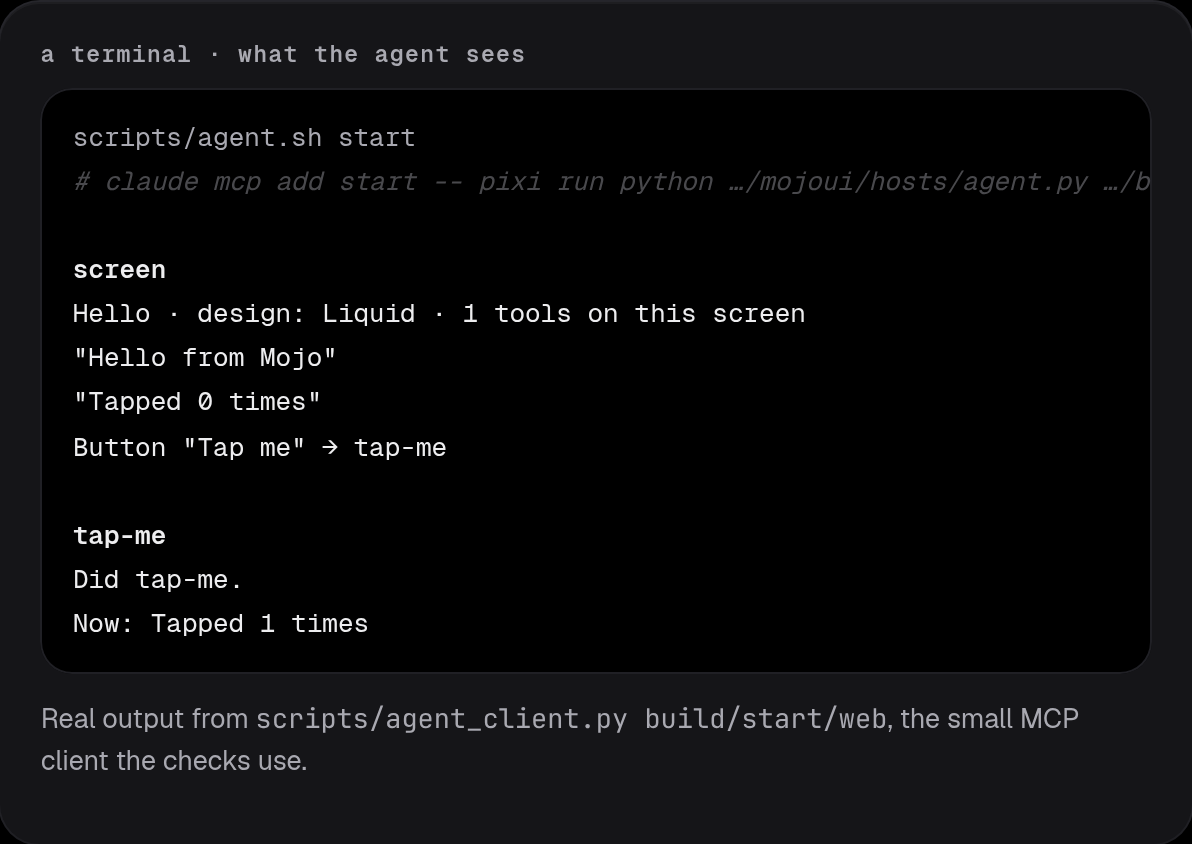
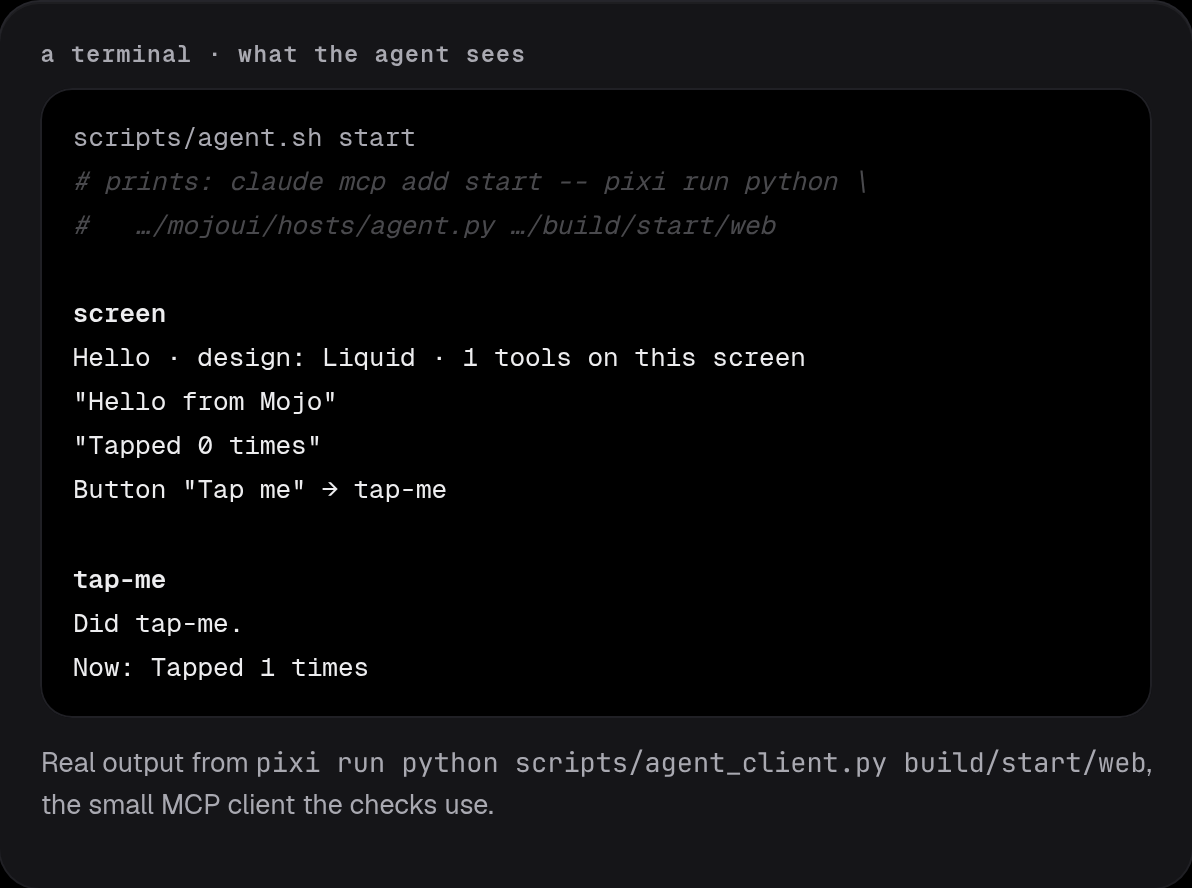
Get started, review fixes: Mac lines say what ran (GitHub's macOS 15: taps work, layout wrong), libadwaita 1.7 distros, pixi run on the agent client (D-4751)

diff --git a/docs/start.html b/docs/start.html
@@ -56,7 +56,7 @@ section .head { max-width: 860px; }
   <div class="wrap" style="display:block">
     <div class="eyebrow rise"><span>Get started</span></div>
     <h1 class="rise" data-words data-step="70" data-d0="120" style="font-size:clamp(48px,7vw,100px)">Your first Mojo app.</h1>
-    <p class="lede rise" style="margin-left:auto;margin-right:auto"><span data-words data-step="26" data-d0="700">omxcode is an app framework written in Mojo. You write one file; it becomes a native app on Linux, a web app, and a Mac app.</span> <span class="two" data-words data-step="26" data-d0="1100">Install, write 30 lines, build, run. About ten minutes.</span></p>
+    <p class="lede rise" style="margin-left:auto;margin-right:auto"><span data-words data-step="26" data-d0="700">omxcode is an app framework written in Mojo. You write one file; it becomes a native app on Linux and a web app, with Mac apps on the way.</span> <span class="two" data-words data-step="26" data-d0="1100">Install, write 30 lines, build, run. About ten minutes.</span></p>
     <div class="ctas rise"><span style="animation-delay:1500ms"><a class="cta" href="#install">Start</a></span><span style="animation-delay:1580ms"><a class="more" href="#what">What is it?</a></span></div>
   </div>
 </section>
@@ -71,7 +71,7 @@ section .head { max-width: 860px; }
     </div>
     <div class="facts3">
       <div class="rv"><div class="t">How it works</div><h3>You describe, the platform draws</h3><p>An app is a struct with three parts: its state, an <code>update</code> that changes it, and a <code>view</code> that describes the screen. omxcode turns that description into GTK widgets on Linux, HTML on the web and AppKit views on the Mac.</p></div>
-      <div class="rv"><div class="t">Where it runs</div><h3>Linux and the web today</h3><p>Linux and the web are run by checks on every change. Mac apps build and run on GitHub's macOS machines. Android runs on the emulator; iPhone builds. Windows waits for Mojo itself.</p></div>
+      <div class="rv"><div class="t">Where it runs</div><h3>Linux and the web today</h3><p>Linux and the web are run by checks on every change. The Mac builds, and this page's app has run on GitHub's macOS machine, with its layout there still to fix. Android runs on the emulator; iPhone builds. Windows waits for Mojo itself.</p></div>
       <div class="rv"><div class="t">What you get free</div><h3>A look, a GPU, an agent</h3><p>The Liquid look is one method. The same language computes on an NVIDIA GPU when there is one. And every app can be used by an AI agent without a line of extra code.</p></div>
     </div>
   </div>
@@ -88,11 +88,11 @@ section .head { max-width: 860px; }
       <div class="say rv">
         <p><b>You need:</b></p>
         <ul>
-          <li><b>Linux</b> on x86-64 with GTK 4 and libadwaita 1.7 or newer (Ubuntu 24.04, Fedora 40 or later should do; most testing is on Arch).</li>
+          <li><b>Linux</b> on x86-64 with GTK 4 and libadwaita 1.7 or newer, from your distribution (recent ones such as Fedora 42 or Ubuntu 25.04 ship it; most testing is on Arch).</li>
           <li><a href="https://pixi.sh">pixi</a>, which installs Mojo and everything else into the project folder. Nothing goes system-wide.</li>
           <li>Optional: an NVIDIA GPU. Without one, the same code runs on the CPU.</li>
         </ul>
-        <p>On a Mac (Apple Silicon), the same commands install and build; so far that's been run on GitHub's macOS machines, not yet on someone's own Mac.</p>
+        <p>On a Mac (Apple Silicon), pixi installs the same tools; so far that has been run on GitHub's macOS machines, not yet on someone's own Mac.</p>
       </div>
       <div class="pane rv"><div class="file">a terminal<button type="button" data-copy="#c-install">copy</button></div>
 <pre class="code" id="c-install">curl -fsSL https://pixi.sh/install.sh | sh     <span class="c"># if you don't have pixi</span>
@@ -165,7 +165,7 @@ pixi install                                   <span class="c"># Mojo 1.1 and th
       <div class="say rv">
         <p><b>Linux:</b> <code>scripts/build.sh start linux</code> compiles the file into a GTK app at <code>build/start/linux/start</code>. Run it and tap the button.</p>
         <p><b>The web:</b> <code>scripts/build.sh start web</code> builds the same file for the web host. Open <code>http://127.0.0.1:5001</code>. The app's logic stays in the server, in Mojo; the page gets HTML.</p>
-        <p><b>Mac:</b> <code>scripts/build.sh start mac</code> makes an AppKit app for Apple Silicon.</p>
+        <p><b>Mac:</b> <code>scripts/build.sh start mac</code> makes an AppKit app for Apple Silicon (it cross-builds from Linux too). This app ran on GitHub's macOS 15 machine and its taps work, but the layout isn't right yet: the content doesn't fill the window. That's next.</p>
         <p class="note2">The first build takes about a minute; later ones are quicker. For now the compiler also prints deprecation warnings from the framework's own code; they're harmless, and cleaning them up is on the list.</p>
       </div>
       <div>
@@ -222,7 +222,8 @@ pixi run python mojoui/hosts/web.py build/start/web
       </div>
       <div class="pane rv"><div class="file">a terminal · what the agent sees</div>
 <pre class="code">scripts/agent.sh start
-<span class="c"># claude mcp add start -- pixi run python …/mojoui/hosts/agent.py …/build/start/web</span>
+<span class="c"># prints: claude mcp add start -- pixi run python \</span>
+<span class="c">#   …/mojoui/hosts/agent.py …/build/start/web</span>
 
 <span class="k">screen</span>
 <span class="o">Hello · design: Liquid · 1 tools on this screen
@@ -233,7 +234,7 @@ Button "Tap me" → tap-me</span>
 <span class="k">tap-me</span>
 <span class="o">Did tap-me.
 Now: Tapped 1 times</span></pre>
-        <p class="note2">Real output from <code>scripts/agent_client.py build/start/web</code>, the small MCP client the checks use.</p></div>
+        <p class="note2">Real output from <code>pixi run python scripts/agent_client.py build/start/web</code>, the small MCP client the checks use.</p></div>
     </div>
   </div>
 </section>

diff --git a/docs/decisions.md b/docs/decisions.md
@@ -1176,3 +1176,4 @@ One line per fork: `D-nn · chose X over Y · why · reversible?`
 - D-4748 · (owner, 2026-11-04: "a gallery, a good example on the cover page… what we support now, how to use them, walk them through how it works, what is needed, speed benefits and where it is useful… a wiki page") the "wiki page" is a site page, docs/agents.html (the site is where the docs are read; a GitHub wiki would be a second copy to keep true), in the cover's style: a gallery of seven real screens from goal 48, the 36 components by group, a six-step walkthrough with a real render_ui call (props checked against genui's catalog), the example's code, what you need, the benchmark (bench.json 2026-11-04 07:39), where it's useful, and what isn't done yet. The cover's #agents section leads with the Lisbon map and the measured numbers and links there (was: "13 components, early today"); the gallery tile and docs/gallery gain the agent examples; site_components.py re-run (124 components). Showcase rule (D-4735): the app is all Mojo; the agent it talks to in the shots is the scripted stand-in on the official AG-UI SDK, as the page says · reversible: yes
 - D-4749 · (owner, 2026-11-04: "speed could be removed, we'll just say it's compliant and in process") the public pages carry no timings and no CopilotKit comparison: docs/agents.html's Speed section becomes "Standard, and in process" (AG-UI as the official SDK writes it: recorded streams read event for event, requests pass the SDK's models; LocalAgent in the app's process; datasets stay in the app), the cover's #agents block and the gallery card say the same; the benchmark stays in docs/agui.md, docs/goals/48/bench.json and scripts/agui_bench.py as an internal measure · reversible: yes
 - D-4750 · (owner, 2026-11-04: "start very simply… a wiki page how to get started, how to install… a Hello World… Liquid comes for free… second post: how is this tool friendly for agents… then the masterpiece omxplorer") docs/start.html, a getting-started page in the site's style: what it is, install (pixi), the app (examples/start/app.mojo, the exact file on the page), build and run on GTK and the web, Liquid as one method (shots with and without it), handing the app to an agent (real agent-host output), where next; linked from the cover's hero, its Build-your-own card and footer. docs/launch/series.md drafts four short posts (what it is → agent-ready → agents build screens → omxplorer), one picture each, no speed claims. Every command and picture on the page was run here; the Mac lines say GitHub's runners, not a person's Mac · reversible: yes
+- D-4751 · (reviewer, D-4750 round 1) docs/start.html's Mac lines say what was run: examples/start cross-built for the Mac on Linux (scripts/build.sh start mac, 48 s) and run on GitHub's macOS 15 runner (scripts/mac-ci start, run 41878763650; ci/mac/start.steps): three taps reach the app ("Tapped 3 times", 0 problems), but the AppKit layout is wrong: the root column is its content's width (121 of 480 pt), so the text wraps and Liquid's background covers only that column (docs/img/start/hello-mac-ci.png); GTK and the web fill the window. The macOS 26 job was cancelled (the run reads "failed"). Also: the distro list names releases that ship libadwaita 1.7, `pixi run python` on the agent client, a post picture without a clipped line, post 4 says "your own machine" · next: the AppKit root fills its window · reversible: yes

diff --git a/docs/journal.md b/docs/journal.md
@@ -1059,3 +1059,4 @@ Owner asked how omxapp/omxplorer become agent-native. Drew `docs/design/agent/bo
 - Owner: a gallery, the cover, and a page that walks through AG-UI. docs/agents.html (gallery, what it does, how it works, use it, what you need, speed, where, not yet), checked in headless Chromium at 1440 and 390 px; omxqua's own `.side`/`.grp` class names clashed with the page's, renamed. Cover #agents rewritten around the Lisbon map; gallery tile → the dashboard; docs/gallery gains an Agent chat card; component counts regenerated (124). Not pushed: the site publishes from main and goal 48 isn't merged (D-4748).
 - Owner: no speed on the public pages, "compliant and in process" instead (D-4749). agents.html's Speed section replaced; the hero, cover lede, cover pills, gallery tile and gallery card lose every timing and CopilotKit mention (grep: none left); checked in headless Chromium.
 - Owner: start the posts simply, with a getting-started page. examples/start (a counter in Liquid) built on GTK (~70 s first build) and the web, tapped three times by the test mode on both (shots); the same file without theme() shot for the comparison (a throwaway example, deleted); the agent host read its screen and tapped it ("Now: Tapped 1 times"). docs/start.html checked at 1440 and 390 px (a single-column grid overflowed on phones: minmax(0, 1fr)). Every app build prints ~23 deprecation warnings from the framework's own code (unsafe_ptr → ptr, positional __getitem__): the page says so; cleaning them is open. Posts drafted in docs/launch/series.md (D-4750).
+- Mac: examples/start built for the Mac (cross, 48 s) and run on GitHub's macOS 15 runner: taps work, layout wrong (the root VStack is 121 pt wide in a 480 pt window; on GTK and the web it fills the window). A Mac host bug to fix next; the page says so (D-4751). Also a 60-second interactive film for the posts (docs/launch/series/film.html).

diff --git a/docs/launch/series.md b/docs/launch/series.md
@@ -45,7 +45,7 @@ Picture: `3-agent-screens.png` (the Lisbon trip). 215 characters.
 
 > Built with all of it: omxplorer, a data app written in Mojo.
 >
-> A spreadsheet, the video behind each row and the documents that explain it, on one page, on your own GPU.
+> A spreadsheet, the video behind each row and the documents that explain it, on one page, on your own machine.
 >
 > https://abhisheksreesaila.github.io/omxcode/omxplorer.html
 
@@ -56,5 +56,5 @@ Picture or clip: `docs/img/clip-robots-15s.mp4` (the robot-failure story, alread
 Notes for the owner:
 - Posts 1 to 3 make no speed claims (D-4749); post 4 keeps omxplorer's page as it is.
 - Every command and screen in posts 1 and 2 was run for this: `examples/start` built on GTK and the web, driven through
-  the agent host (`scripts/agent_client.py build/start/web tap-me`).
+  the agent host (`pixi run python scripts/agent_client.py build/start/web tap-me`).
 - Post 1's "Mac" is left out on purpose: Mac builds run on GitHub's machines, not yet on someone's own Mac.
